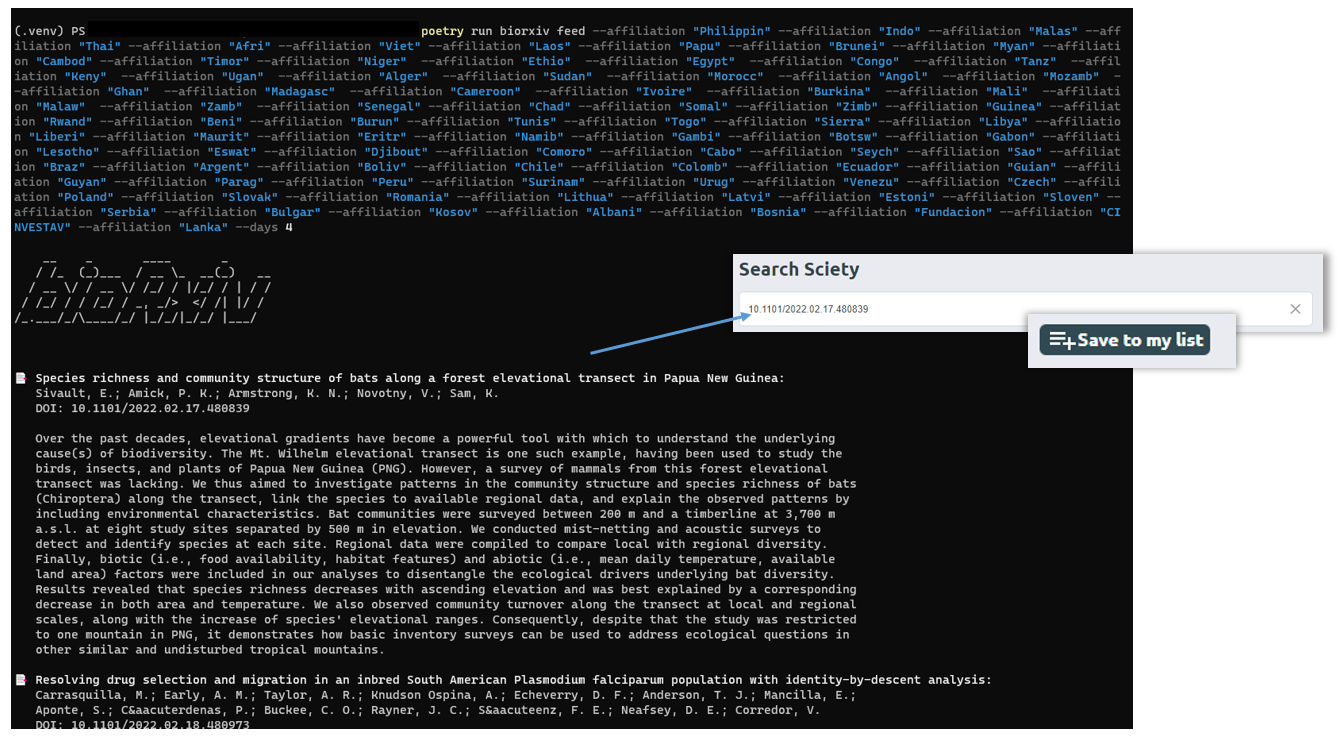
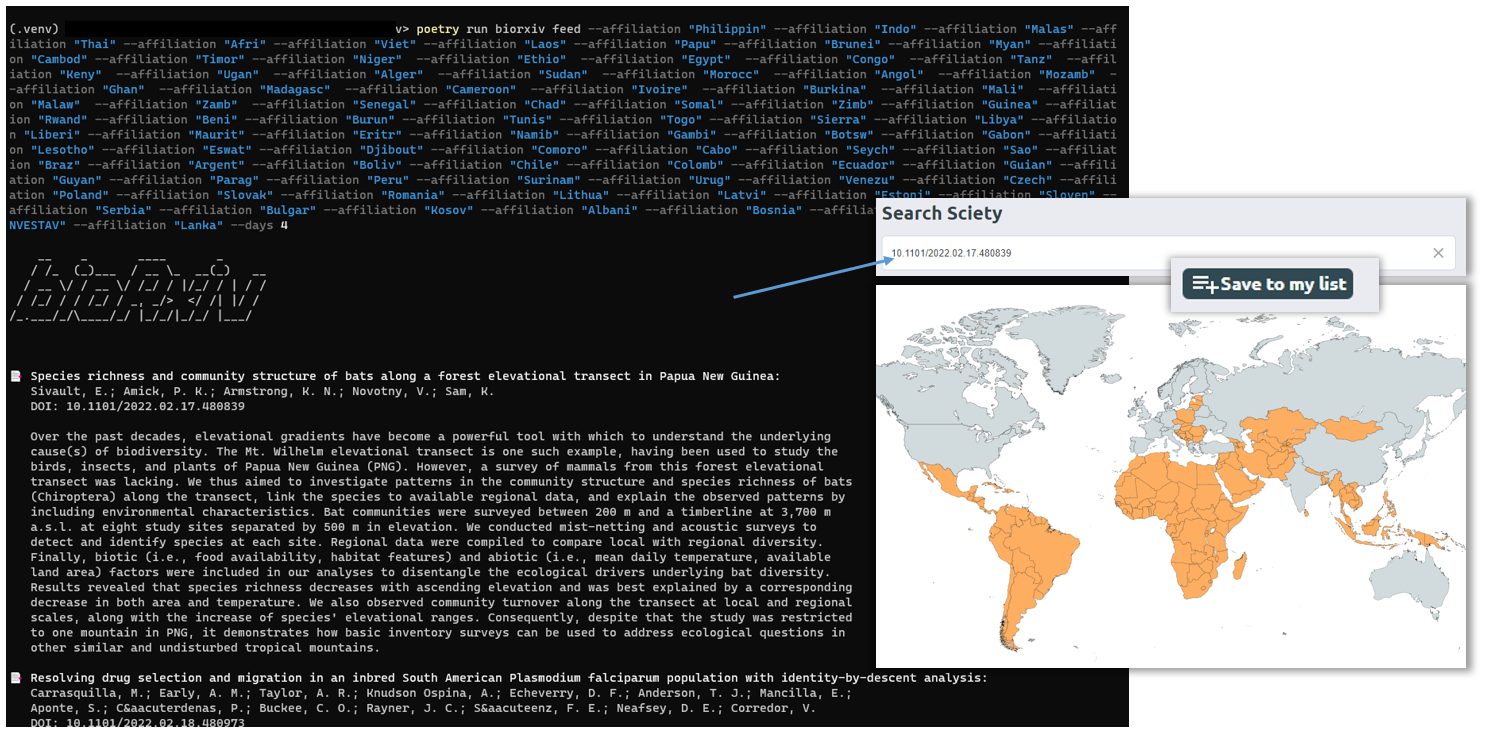
updated blogpost 4 and figure 1

diff --git a/_posts/2022-02-21-blog-post-4.md b/_posts/2022-02-21-blog-post-4.md
@@ -17,7 +17,7 @@ An archival/curatorial project I carry out within a maybe more political action 
 
 In its most superficial aspect, my Sciety list wants to act as centralising hub of preprints published in the Global South. Given that sourcing these preprints from bioRxiv is not that easy to actually do (even after accounting for the fact that bioRxiv is mostly a repository of US preprints) I want my list to allow its followers to “cut out the middleman”, avoid the awkwardness of bioRxiv boolean search functions and the repetitiveness of manual searches, and provide a complete, up-to-date bibliographical source of available South American, African, South-East Asian bioRxiv preprints.
 
-What does the behind the scenes of all of this looks like? What does a “day in the life” look like? Well, it looks like the terminal window below. Every day, I launch an API query to bioRxiv and supply it with the list of countries I am interested in (you will see this list includes Eastern Europe, which I however do not include for now in my Sciety list).  My brother (thank you!) coded me [a nice interface](https://gitlab.com/amv213/biorxiv) where this query outputs the preprint title, the author list, the DOI, and the abstract of every match. Every bioRxiv preprint for which the corresponding author is affiliated with a University whose name includes any of the countries listed (this is as much as I can do for now within the constraints of the metadata). I note down the DOIs, double-check author affiliation on bioRxiv, and when these DOIs are listed on Sciety a few days later, I finally add them to my growing list.
+What does the behind the scenes of all of this looks like? What does a “day in the life” look like? Well, it looks like the terminal window below. Every day, I launch an API query to bioRxiv and supply it with the list of countries I am interested in (in orange in the map, you will see this list includes Eastern Europe and the Middle-East, which I however do not include yet in my Sciety list).  My brother (thank you!) coded me [a nice interface](https://gitlab.com/amv213/biorxiv) where this query outputs the preprint title, the author list, the DOI, and the abstract of every match. Every bioRxiv preprint for which the corresponding author is affiliated with a University whose name includes any of the countries listed (this is as much as I can do for now within the constraints of the metadata). I note down the DOIs, double-check author affiliation on bioRxiv, and when these DOIs are listed on Sciety a few days later, I finally add them to my growing list.
 
 ![Figure 1: Screenshot of the typical API query I perform to retrieve Global South bioRxiv preprints](https://StefanoVianello.github.io/images/BP4_Fig1.PNG)
 
